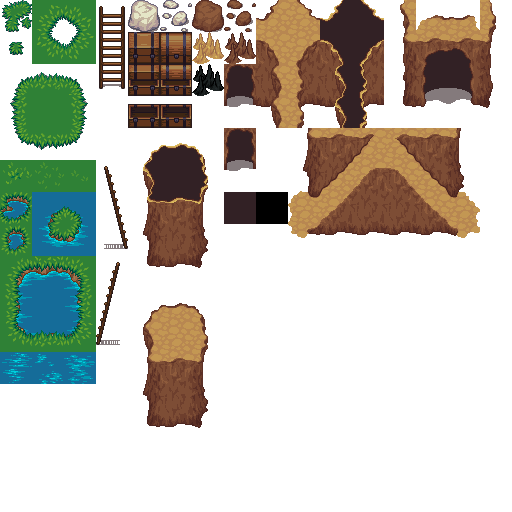
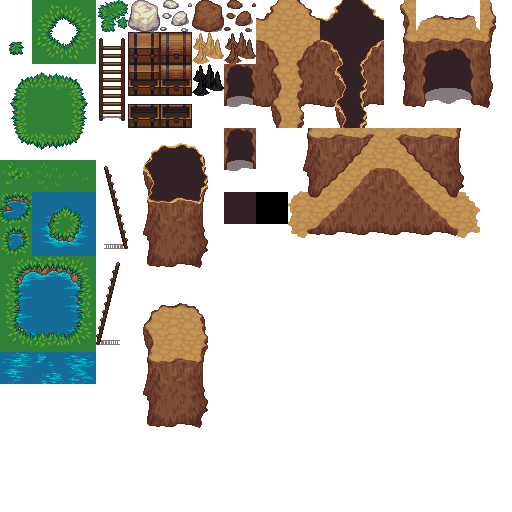
new tileset

Changed region(s): [[0.1875, 0.1562, 0.25, 0.25], [0.1875, 0.0, 0.25, 0.0938], [0.0, 0.0, 0.0625, 0.0625]]

diff --git a/client/tileset.py b/client/tileset.py
@@ -12,21 +12,22 @@ class Tile:
 		self.rotation = rotation
 
 	def draw(self, pos, rotation=0):
-		if not self.image:
-			return
 		self.image.rotate(rotation)
 		self.image.draw_part(pos, (self.left, self.top, self.right, self.bottom))
 
 # Initialize tileset
 def make_tileset(filename, n_horizontal, n_vertical):
 	image = Image(filename)
+	image.ox = 0
+	image.oy = 0
 	tileset = []
-	tileset.append(Tile(None, (0,0,0,0)))
 	TILE_W = 32
 	TILE_H = 32
-	for y in range(n_vertical):
-		for x in range(n_horizontal):
-			tile = Tile(image, (x*TILE_W, y*TILE_H, (x+1)*TILE_W, (y+1)*TILE_H))
-			tileset.append(tile)
+	for s in range(4):
+		for y in range(n_vertical):
+				for x in range(n_horizontal/4):
+					xp = s*4+x
+					tile = Tile(image, (xp*TILE_W, y*TILE_H, (xp+1)*TILE_W, (y+1)*TILE_H))
+					tileset.append(tile)
 
 	return tileset

diff --git a/client/mapvisualizer.py b/client/mapvisualizer.py
@@ -10,7 +10,7 @@ class MapVisualizer:
 		self.playerid = playerid
 		self.screenDim = screenDim
 
-		self.tileset = make_tileset("data/forest.png", 9, 11)
+		self.tileset = make_tileset("data/tiles.png", 16, 16)
 		self.blockvisualizer = BlockVisualizer(self.tileset)
 		self.playervisualizer = PlayerVisualizer([
 			"client/graphics/player_0.png",
